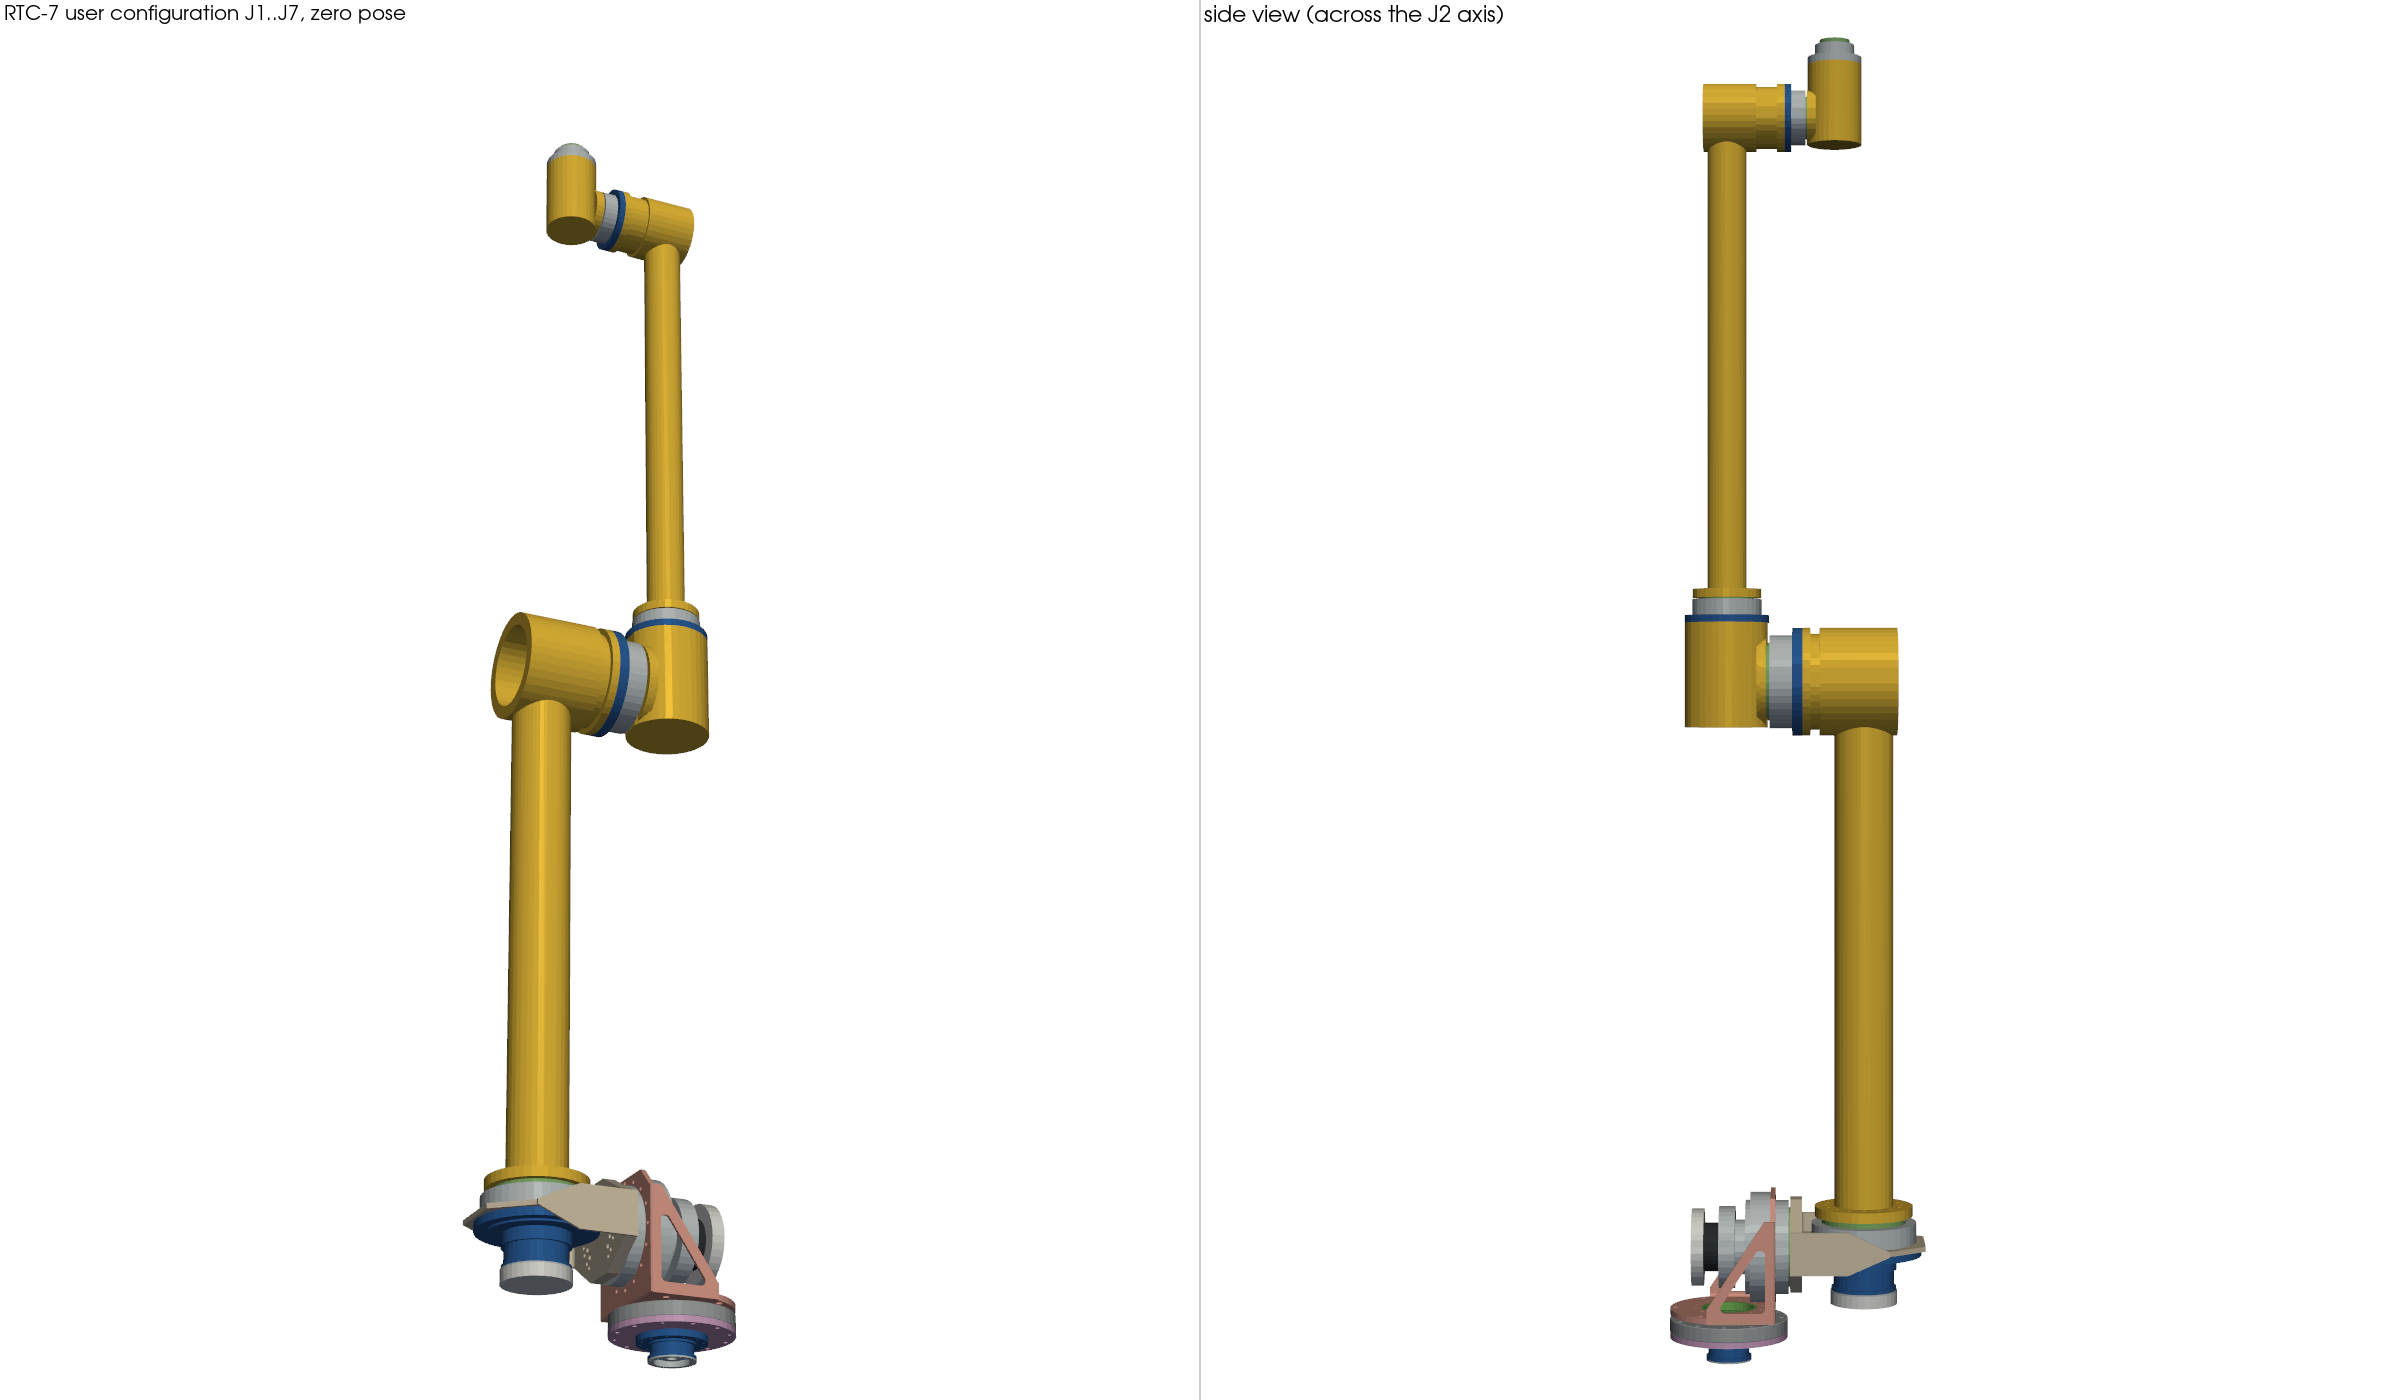
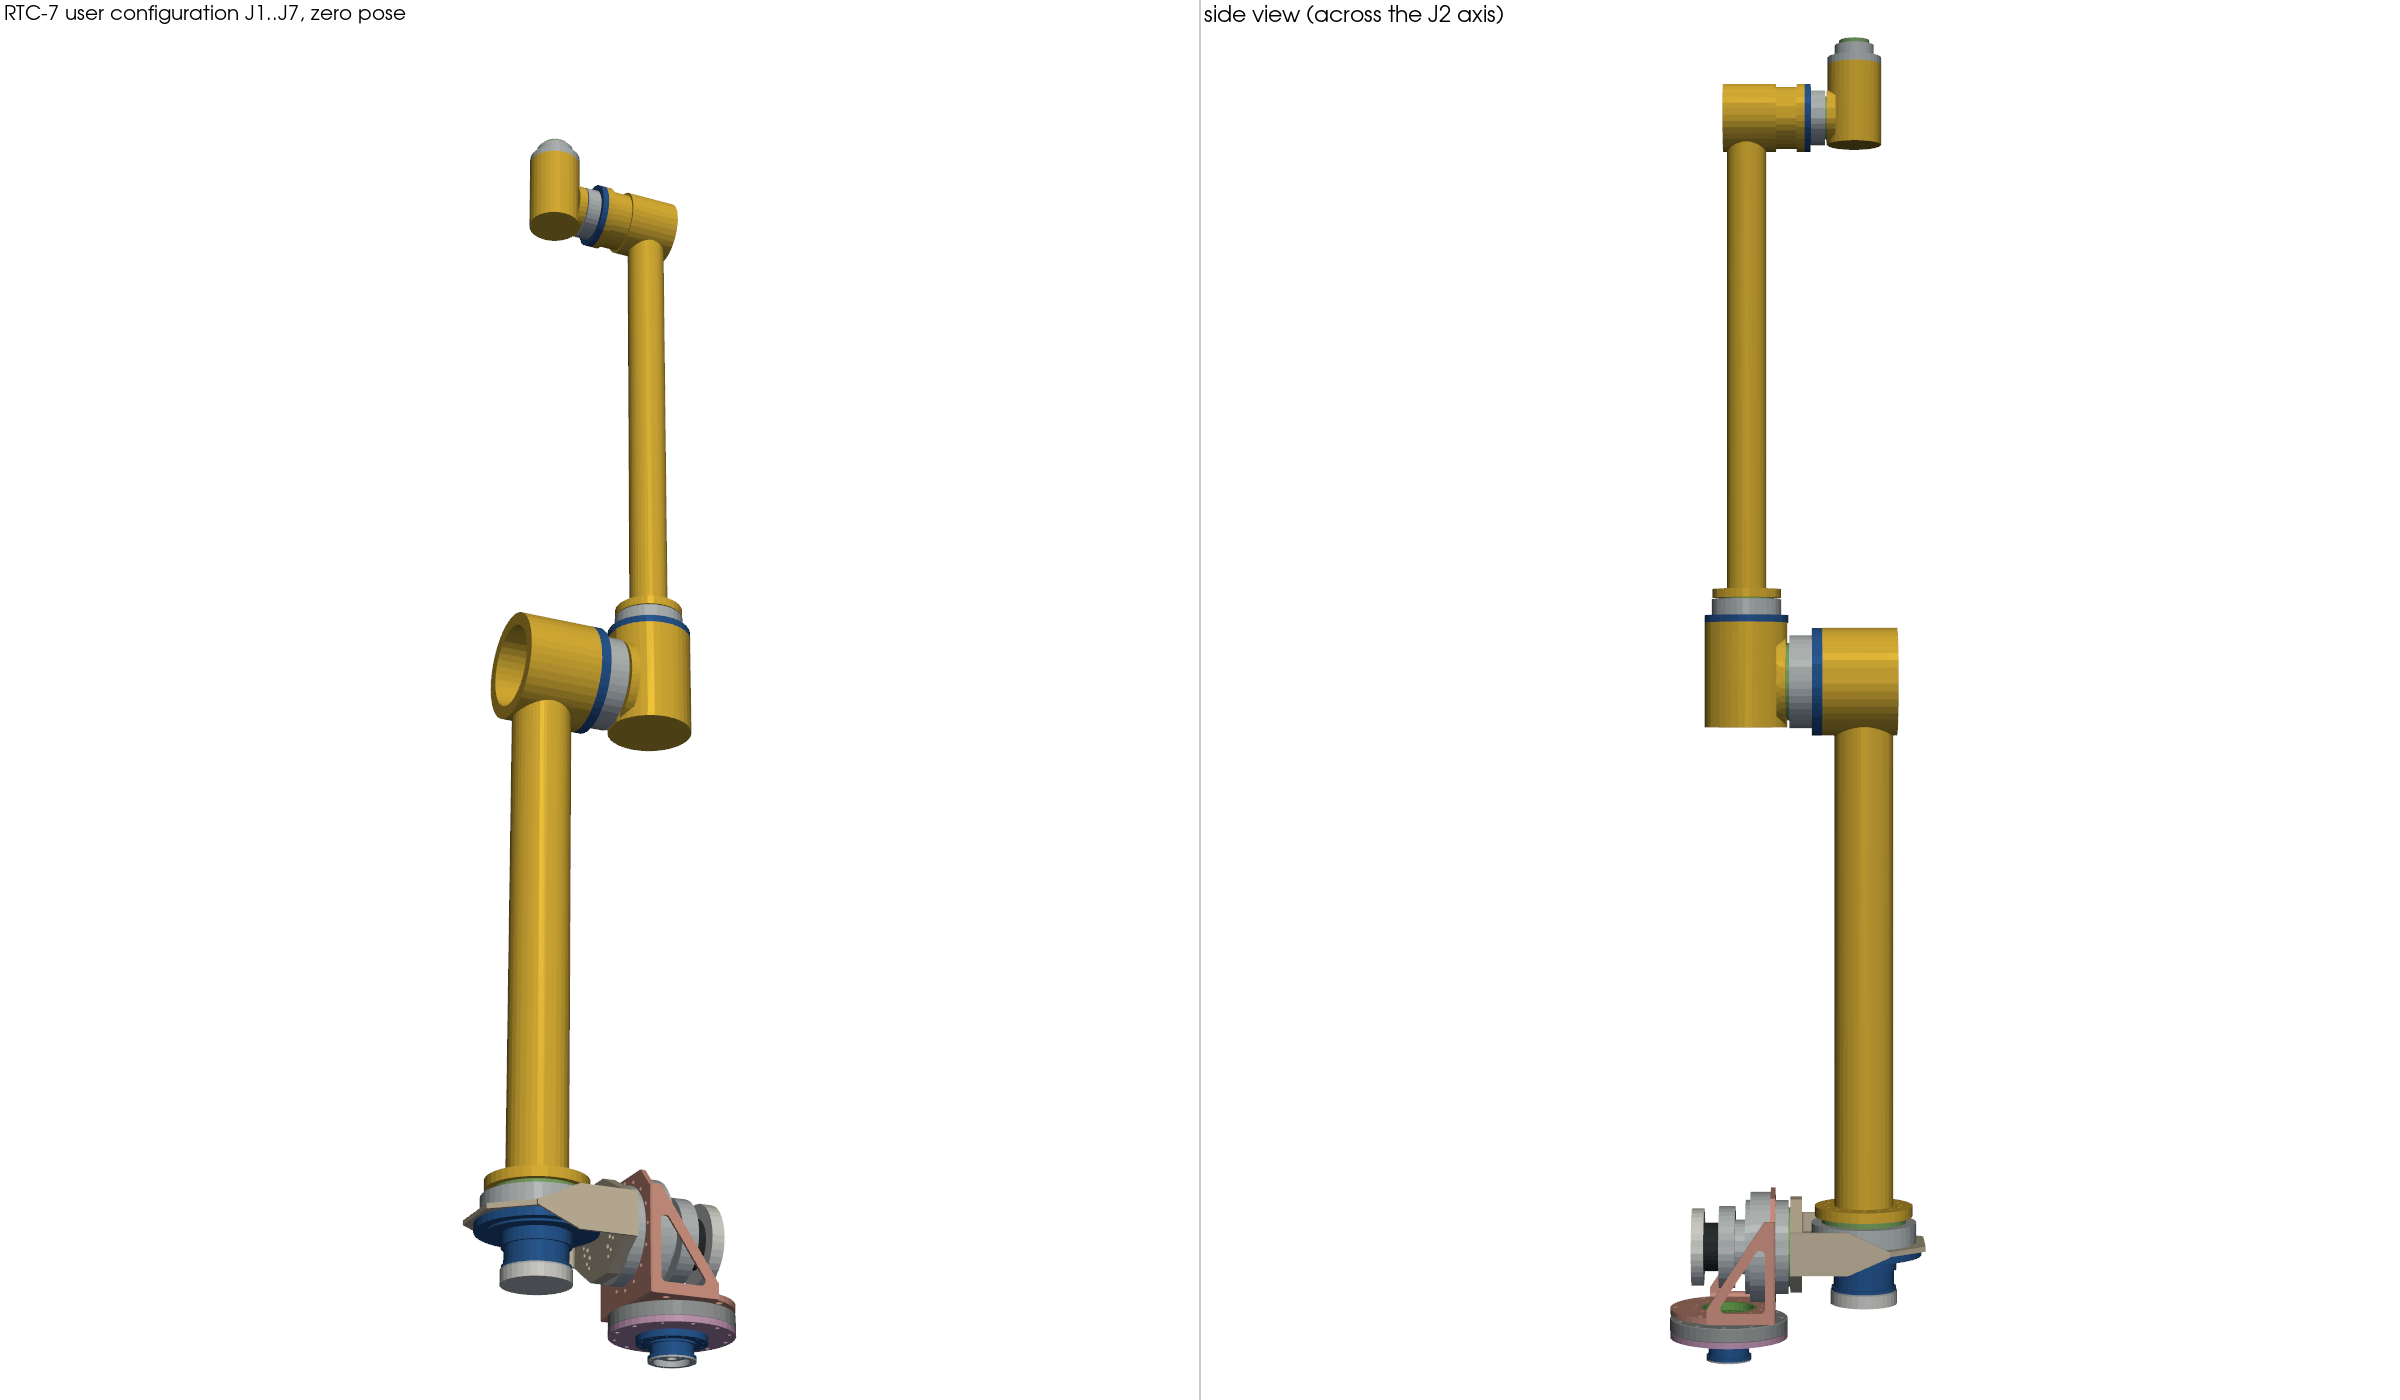
LINK-3U: J4 seat 40 mm closer to the link-3 axis (user); J4..J7, links 4-6, SZU +40 (gen_user_full SHIFT_J4, place())
Claude-Session: https://claude.ai/code/session_01HNc2e7dHna5JzqoB2AUz2M

Changed region(s): [[0.6875, 0.0307, 0.7812, 0.5221], [0.2188, 0.0921, 0.3125, 0.5529]]

diff --git a/tools/gen_user_full.py b/tools/gen_user_full.py
@@ -10,6 +10,16 @@ for ln in open(V2,encoding="utf-8"):
         comps[t[1]]=(t[2],g.frame([float(v) for v in t[3:6]],[float(v) for v in t[6:9]],[float(v) for v in t[9:12]]),"rigid" in t)
     if t[:1]==["LOCK"]: locks.append(t)
 M=g.J3@np.linalg.inv(comps["J3"][1])
+# user 2026-10-27: J4 seat 40 mm closer to the link-3 axis (LINK-3U), J4..J7, links 4-6 and SZU move with it (+X of v2)
+SHIFT_J4=40.0
+comps_v2=dict(comps)
+_S=np.eye(4); _S[0,3]=SHIFT_J4
+for _n in ("J4","L4","J5","L5","J6","L6","J7"):
+    comps[_n]=(comps[_n][0], _S@comps[_n][1], comps[_n][2])
+comps["L3"]=("links-user/LINK-3U/LINK-3U.txt", comps["L3"][1], comps["L3"][2])
+def place(n):
+    """v2-world coordinates of item n (its spec / layout-v2 envelope) -> the user's assembly frame"""
+    return M@comps[n][1]@np.linalg.inv(comps_v2[n][1])
 dist=["L3","J4","L4","J5","L5","J6","L6","J7"]
 # gripper SZU (СЗУ, user 2026-10-27) on the J7 output shaft: card x=10 (recess bottom, PORT_j7_out) on the KB17 output
 # face (joint x=56.5), card axes = the J7 frame; TCP = card x=150
@@ -40,7 +50,7 @@ if __name__=="__main__":
         "#   link  link part               plane A      plane B      port plane   joint  joint part (output shaft)",
         "REV YULA  YULA-01_Adapter         PORT_j1_axA  PORT_j1_axB  PORT_j1_out  J1     DMRD-KB25-03_OutputShaft",
         "REV L2    LINK-2B-01_Weldment     PORT_j2_axA  PORT_j2_axB  PORT_j2_out  J2     DMRD-80E-03_OutputShaft",
-        "REV L3    LINK-3-01_Weldment      PORT_j3_axA  PORT_j3_axB  PORT_j3_out  J3     DMRD-KB50-03_OutputShaft",
+        "REV L3    LINK-3U-01_Weldment     PORT_j3_axA  PORT_j3_axB  PORT_j3_out  J3     DMRD-KB50-03_OutputShaft",
         "REV L4    LINK-4-01_Weldment      PORT_j4_axA  PORT_j4_axB  PORT_j4_out  J4     DMRD-KB45-03_OutputShaft",
         "REV L5    LINK-5-01_Weldment      PORT_j5_axA  PORT_j5_axB  PORT_j5_out  J5     DMRD-KB32-03_OutputShaft",
         "REV L6    LINK-6-01_Weldment      PORT_j6_axA  PORT_j6_axB  PORT_j6_out  J6     DMRD-KB25-03_OutputShaft",
@@ -81,13 +91,13 @@ def preview(png):
          ("BASEPLATE",lb.build_part(lb.parse("links-user/BASEPLATE/BASEPLATE.txt")[0][0]),"base","B"),
          ("LINK-2B",mv(lb.build_part(lb.parse("links-user/LINK-2B/LINK-2B.txt")[0][0]),g.L2),"link2","L2")]
     for n in ("L3","L4","L5","L6"):
-        P.append(("LINK-"+n[1],mv(lb.build_part(lb.parse(comps[n][0])[0][0]),M),"link3",n))
+        P.append(("LINK-"+n[1],mv(lb.build_part(lb.parse(comps[n][0])[0][0]),place(n)),"link3",n))
     _all=je.all_joints; kb17=dict(_all()["SHM-KB17"]); kb17["x_out"]=59.5   # placed by the SHM-60 joint frame (base x=6.5)
     je.all_joints=lambda: {**_all(), "SHM-KB50": _all()["SHM-KB50F"], "SHM-60": kb17}
     J2v2=comps["J2"][1]
     for nm,s,jn,kind in lb.envelope_solids("robot/RTC-7-layout-v2.txt",["J2","J3","J4","J5","J6","J7"]):
         if jn=="base": continue
-        Tn=g.J2@np.linalg.inv(J2v2) if jn=="J2" else M
+        Tn=g.J2@np.linalg.inv(J2v2) if jn=="J2" else place(jn)
         P.append((nm,mv(s,Tn),kind,jn))
     order=["B","J1","L1","J2","L2","J3","L3","J4","L4","J5","L5","J6","L6","J7"]
     for i,a in enumerate(P):

diff --git a/tools/sweep_user_full.py b/tools/sweep_user_full.py
@@ -25,7 +25,7 @@ P+=[("LINK-1U",mv(lb.build_part(lb.parse("links-user/LINK-1U/LINK-1U.txt")[0][0]
     ("BASEPLATE",lb.build_part(lb.parse("links-user/BASEPLATE/BASEPLATE.txt")[0][0]),"B"),
     ("LINK-2B",mv(lb.build_part(lb.parse("links-user/LINK-2B/LINK-2B.txt")[0][0]),g.L2),"L2")]
 for n in ("L3","L4","L5","L6"):
-    P.append(("LINK-"+n[1],mv(lb.build_part(lb.parse(gf.comps[n][0])[0][0]),gf.M),n))
+    P.append(("LINK-"+n[1],mv(lb.build_part(lb.parse(gf.comps[n][0])[0][0]),gf.place(n)),n))
 _all=je.all_joints; kb17=dict(_all()["SHM-KB17"]); kb17["x_out"]=59.5
 je.all_joints=lambda: {**_all(),"SHM-KB50":_all()["SHM-KB50F"],"SHM-60":kb17}
 J2v2=gf.comps["J2"][1]; J1v2=gf.comps["J1"][1]
@@ -33,7 +33,7 @@ for nm,s,jn,kind in lb.envelope_solids("robot/RTC-7-layout-v2.txt",["J1","J2","J
     if jn=="base": continue
     if jn=="J1": Tn=g.frame([-33.5,0,0],[1,0,0],[0,-0.5,0.866025])@np.linalg.inv(J1v2)
     elif jn=="J2": Tn=g.J2@np.linalg.inv(J2v2)
-    else: Tn=gf.M
+    else: Tn=gf.place(jn)
     # moving part of a joint (output shaft) belongs to the next link
     grp=jn if kind!="rot" or "Output" not in nm else order[order.index(jn)+1]
     P.append((jn+" "+nm,mv(s,Tn),grp))
